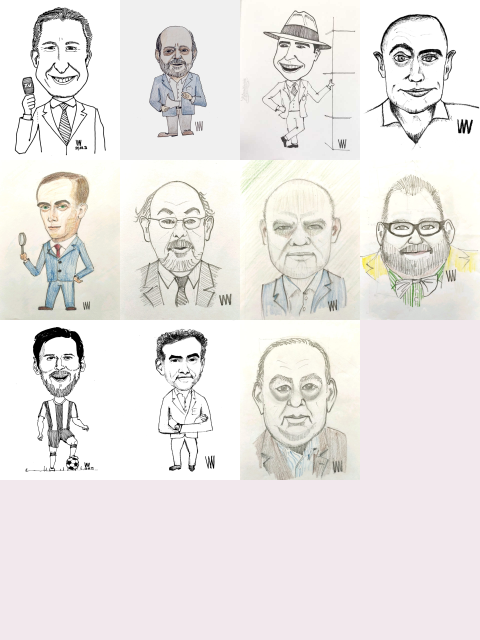
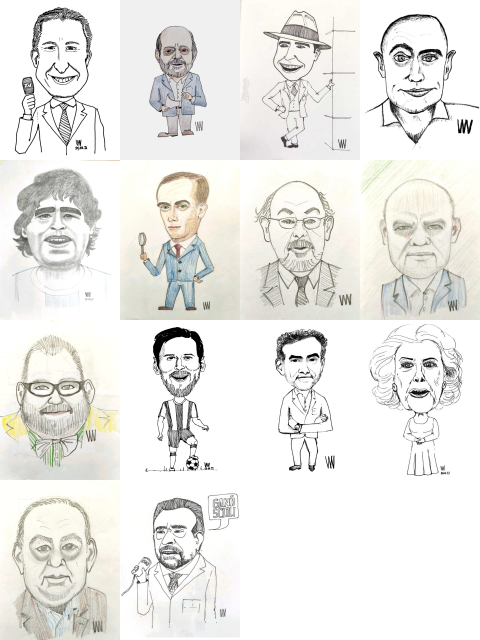
Version 20210428
Actualizacion galeria conocidos

diff --git a/galeria-ArtistasPeriodistas.html b/galeria-ArtistasPeriodistas.html
@@ -35,17 +35,17 @@
 					<area shape="rect" coords="120,000,240,160" onclick="muestraImagen('images/personajes/AlfredoLeuco.webp ')" alt="Alfredo Leuco">
 					<area shape="rect" coords="240,000,360,160" onclick="muestraImagen('images/personajes/CarlosGardel.webp	')" alt="Carlos Gardel">
 					<area shape="rect" coords="360,000,480,160" onclick="muestraImagen('images/personajes/CarlosPagni.webp	')" alt="Carlos Pagni">
-					<area shape="rect" coords="000,160,120,320" onclick="muestraImagen('images/personajes/HugoAlconada.webp	')" alt="Hugo Alconada Mon">
-					<area shape="rect" coords="120,160,240,320" onclick="muestraImagen('images/personajes/JoaquinMSola.webp ')" alt="Joaquin M Sola ">
-					<area shape="rect" coords="240,160,360,320" onclick="muestraImagen('images/personajes/JorgeFDiaz.webp   ')" alt="Jorge Fernandez Diaz">
-					<area shape="rect" coords="360,160,480,320" onclick="muestraImagen('images/personajes/JorgeLanata.webp	')" alt="Jorge Lanata">
-					<area shape="rect" coords="000,320,120,480" onclick="muestraImagen('images/personajes/LionelMessi.webp	')" alt="Lionel Messi">
-					<area shape="rect" coords="120,320,240,480" onclick="muestraImagen('images/personajes/LuisMajul.webp	  ')" alt="Luis Majul">
-					<area shape="rect" coords="240,320,360,480" onclick="muestraImagen('images/personajes/RobertoCachan.webp')" alt="Roberto Cachanosky">
-					<area shape="rect" coords="360,320,480,480" onclick="muestraImagen('images/personajes/WillieV-simpatico+txt.webp')" alt="el dibujante">
-					<area shape="rect" coords="000,000,480,640" onclick="muestraImagen('images/personajes/WillieV-simpatico+txt.webp')" alt="el dibujante">
-					<area shape="rect" coords="120,240,480,640" onclick="muestraImagen('images/personajes/WillieV-simpatico+txt.webp')" alt="el dibujante">
-					<area shape="rect" coords="240,360,480,640" onclick="muestraImagen('images/personajes/WillieV-simpatico+txt.webp')" alt="el dibujante">
+					<area shape="rect" coords="000,160,120,320" onclick="muestraImagen('images/personajes/DiegoMaradona.webp')" alt="Diego Maradona">
+					<area shape="rect" coords="120,160,240,320" onclick="muestraImagen('images/personajes/HugoAlconada.webp	')" alt="Hugo Alconada Mon">
+					<area shape="rect" coords="240,160,360,320" onclick="muestraImagen('images/personajes/JoaquinMSola.webp ')" alt="Joaquin M Sola ">
+					<area shape="rect" coords="360,160,480,320" onclick="muestraImagen('images/personajes/JorgeFDiaz.webp   ')" alt="Jorge Fernandez Diaz">
+					<area shape="rect" coords="000,320,120,480" onclick="muestraImagen('images/personajes/JorgeLanata.webp	')" alt="Jorge Lanata">
+					<area shape="rect" coords="120,320,240,480" onclick="muestraImagen('images/personajes/LionelMessi.webp	')" alt="Lionel Messi">
+					<area shape="rect" coords="240,320,360,480" onclick="muestraImagen('images/personajes/LuisMajul.webp	  ')" alt="Luis Majul">
+					<area shape="rect" coords="360,320,480,480" onclick="muestraImagen('images/personajes/MirthaLegrand.webp')" alt="Mirtha Legrand">
+					<area shape="rect" coords="000,000,120,640" onclick="muestraImagen('images/personajes/RobertoCachan.webp')" alt="Roberto Cachanosky">
+					<area shape="rect" coords="120,240,240,640" onclick="muestraImagen('images/personajes/RobertoNavarro.webp')" alt="Roberto Navarro">
+					<area shape="rect" coords="240,360,360,640" onclick="muestraImagen('images/personajes/WillieV-simpatico+txt.webp')" alt="el dibujante">
 					<area shape="rect" coords="360,480,480,640" onclick="muestraImagen('images/personajes/WillieV-simpatico+txt.webp')" alt="el dibujante">
 
 				</map>

diff --git a/galeria-conocidos.html b/galeria-conocidos.html
@@ -50,14 +50,13 @@
 				<area shape="rect" coords="000,384,096,512" onclick="muestraImagen('images/personajes/lourdesF.webp  ')" alt="Lourdes Flores">
 				<area shape="rect" coords="096,384,192,512" onclick="muestraImagen('images/personajes/LuciBagilet.webp')" alt="LuciBagilet ">
 				<area shape="rect" coords="192,384,288,512" onclick="muestraImagen('images/personajes/Magiord.webp   ')" alt="Magiord       ">
-				<area shape="rect" coords="288,384,384,512" onclick="muestraImagen('images/personajes/MatiasB.webp   ')" alt="MatiasB        ">
-				<area shape="rect" coords="384,384,480,512" onclick="muestraImagen('images/personajes/Nane.webp      ')" alt="Nane           ">
-				<area shape="rect" coords="000,512,096,640" onclick="muestraImagen('images/personajes/OscarAbe.webp  ')" alt="Oscar Abella">
-				<area shape="rect" coords="096,512,192,640" onclick="muestraImagen('images/personajes/OscarDeSan.webp')" alt="Oscar de Sanctis">
-				<area shape="rect" coords="192,512,288,640" onclick="muestraImagen('images/personajes/RubenD.webp    ')" alt="RubenD         ">
-				<area shape="rect" coords="288,512,384,640" onclick="muestraImagen('images/personajes/WillieV-simpatico+txt.webp')" alt="el dibujante">
-				<area shape="rect" coords="384,512,480,640" onclick="muestraImagen('images/personajes/WillieV-simpatico+txt.webp')" alt="el dibujante">
-			
+				<area shape="rect" coords="288,384,384,512" onclick="muestraImagen('images/personajes/MarianoMocoroa.webp')" alt="MarianoMocoroa">
+				<area shape="rect" coords="384,384,480,512" onclick="muestraImagen('images/personajes/Nane.webp      ')" alt="Nane					">         
+				<area shape="rect" coords="000,512,096,640" onclick="muestraImagen('images/personajes/NataliaMariscotti.webp  ')" alt="Natalia Mariscotti">
+				<area shape="rect" coords="096,512,192,640" onclick="muestraImagen('images/personajes/OscarAbe.webp  ')" alt="Oscar Abella						">   
+				<area shape="rect" coords="192,512,288,640" onclick="muestraImagen('images/personajes/OscarDeSan.webp')" alt="Oscar de Sanctis				">   
+				<area shape="rect" coords="288,512,384,640" onclick="muestraImagen('images/personajes/Pascal.webp    ')" alt="Pascal">
+				<area shape="rect" coords="384,512,480,640" onclick="muestraImagen('images/personajes/RubenD.webp    ')" alt="RubenD									">
 			</map>
 			<img usemap="#primary" src="images/personajes/galeria-conocidos.webp" alt="personajes conocidos">
 
